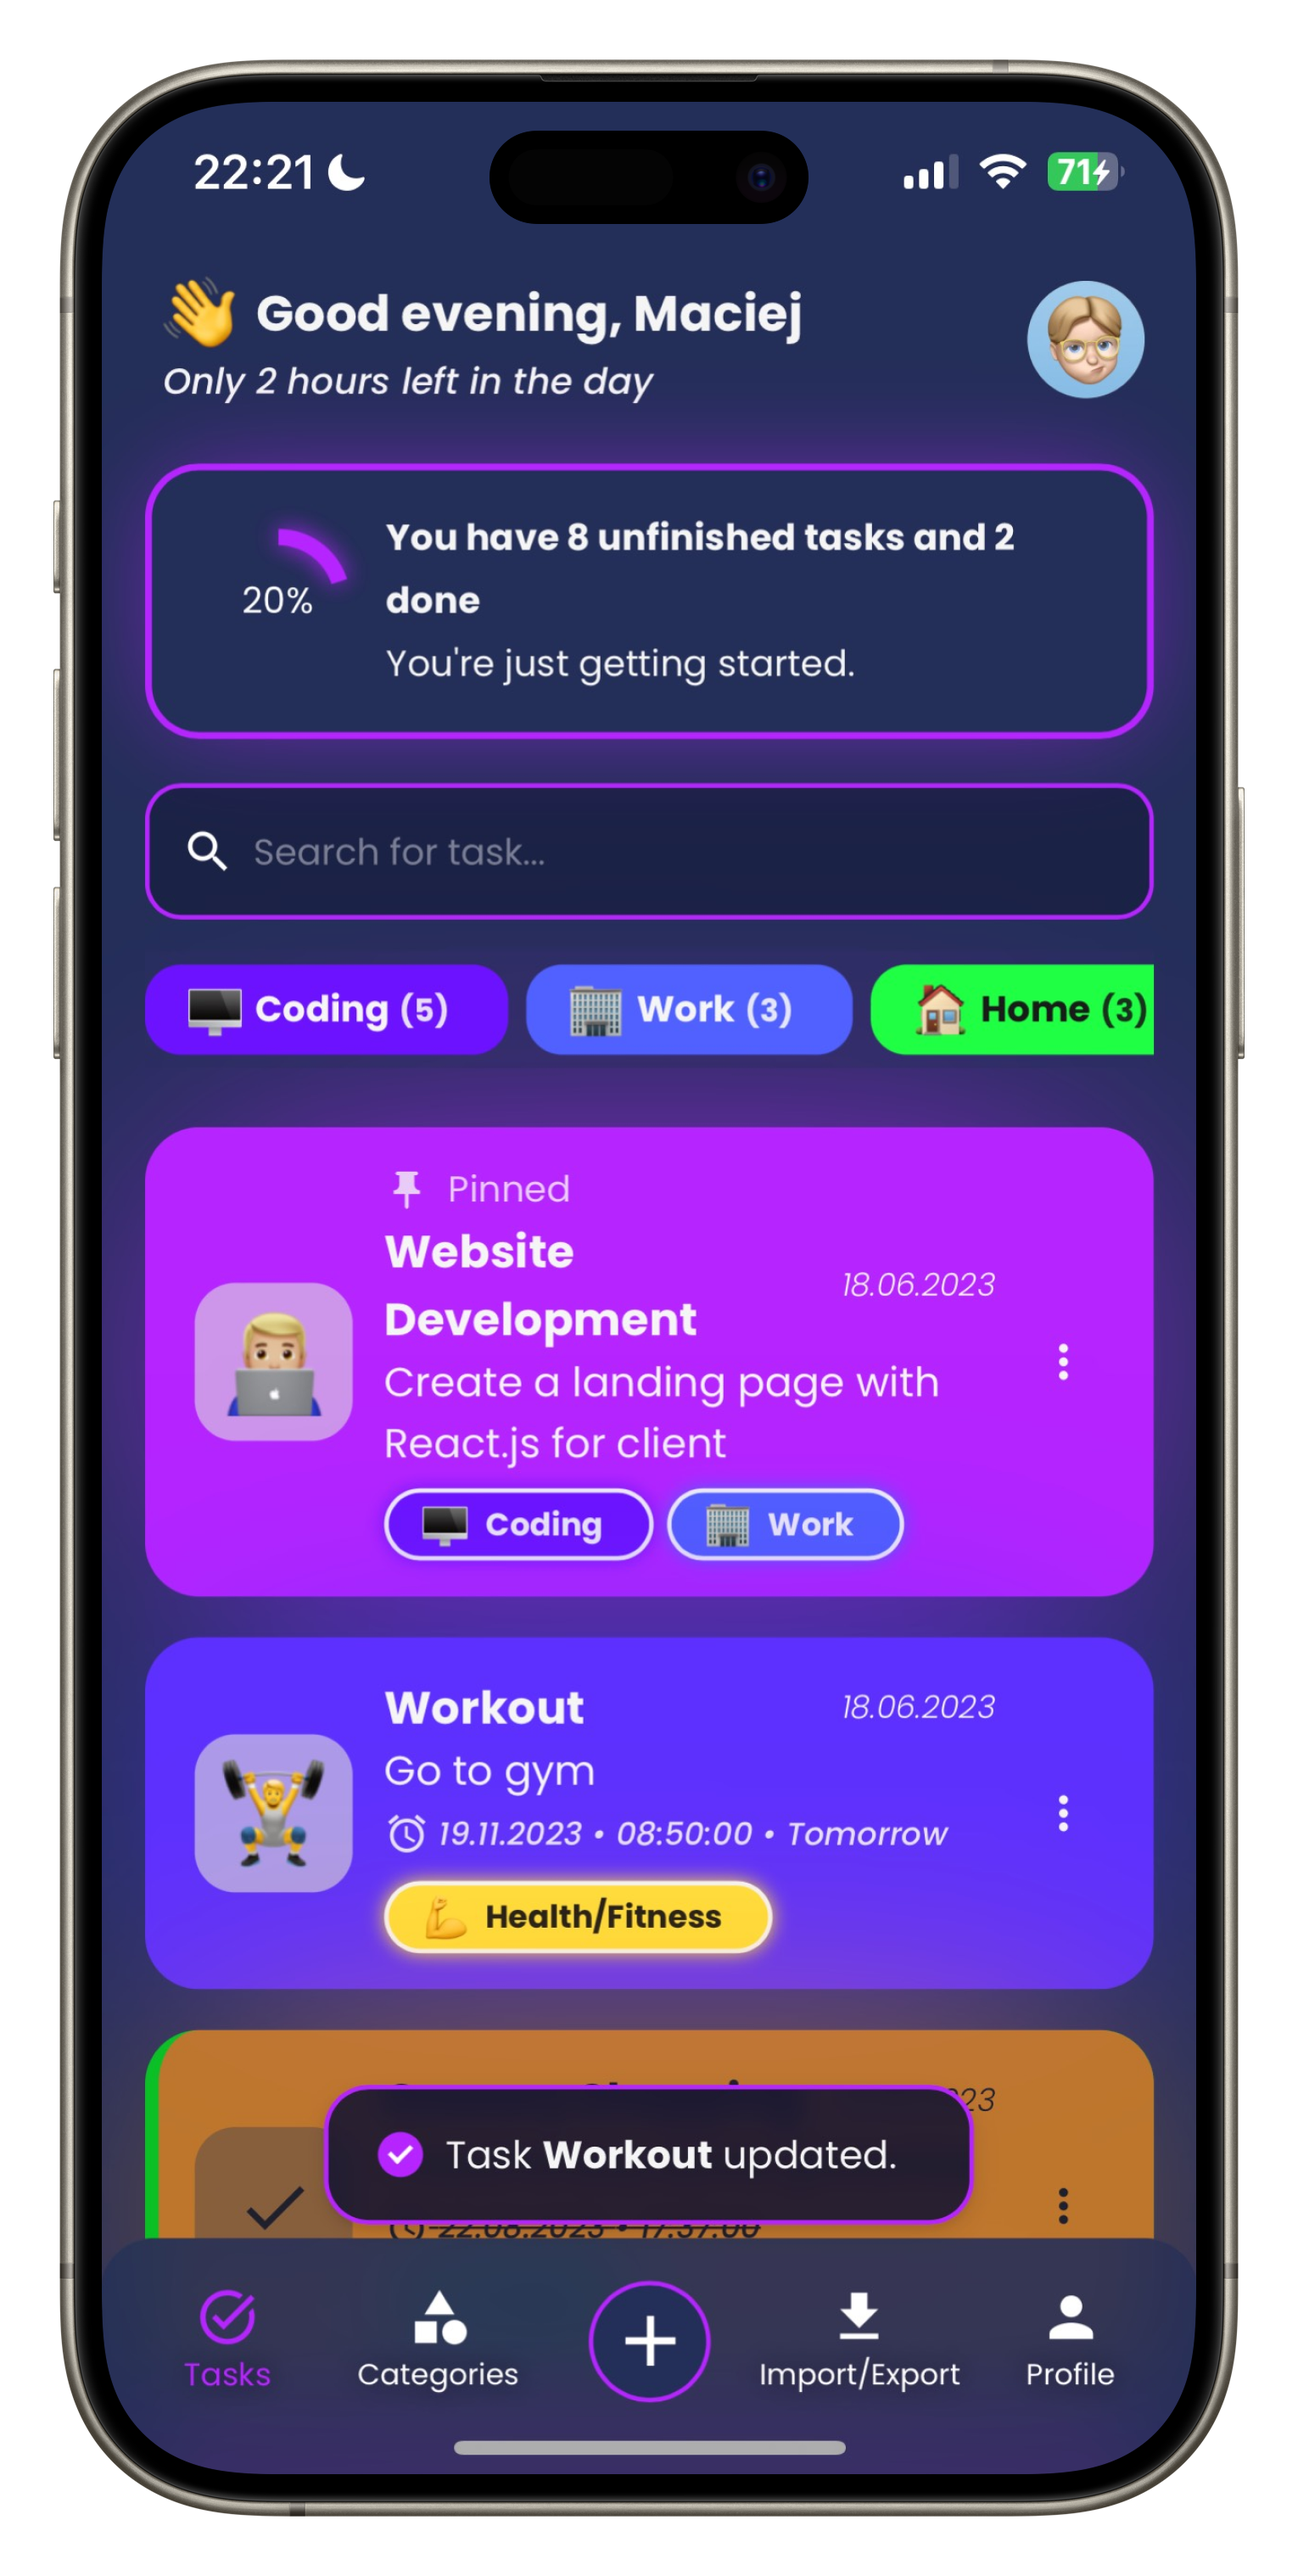
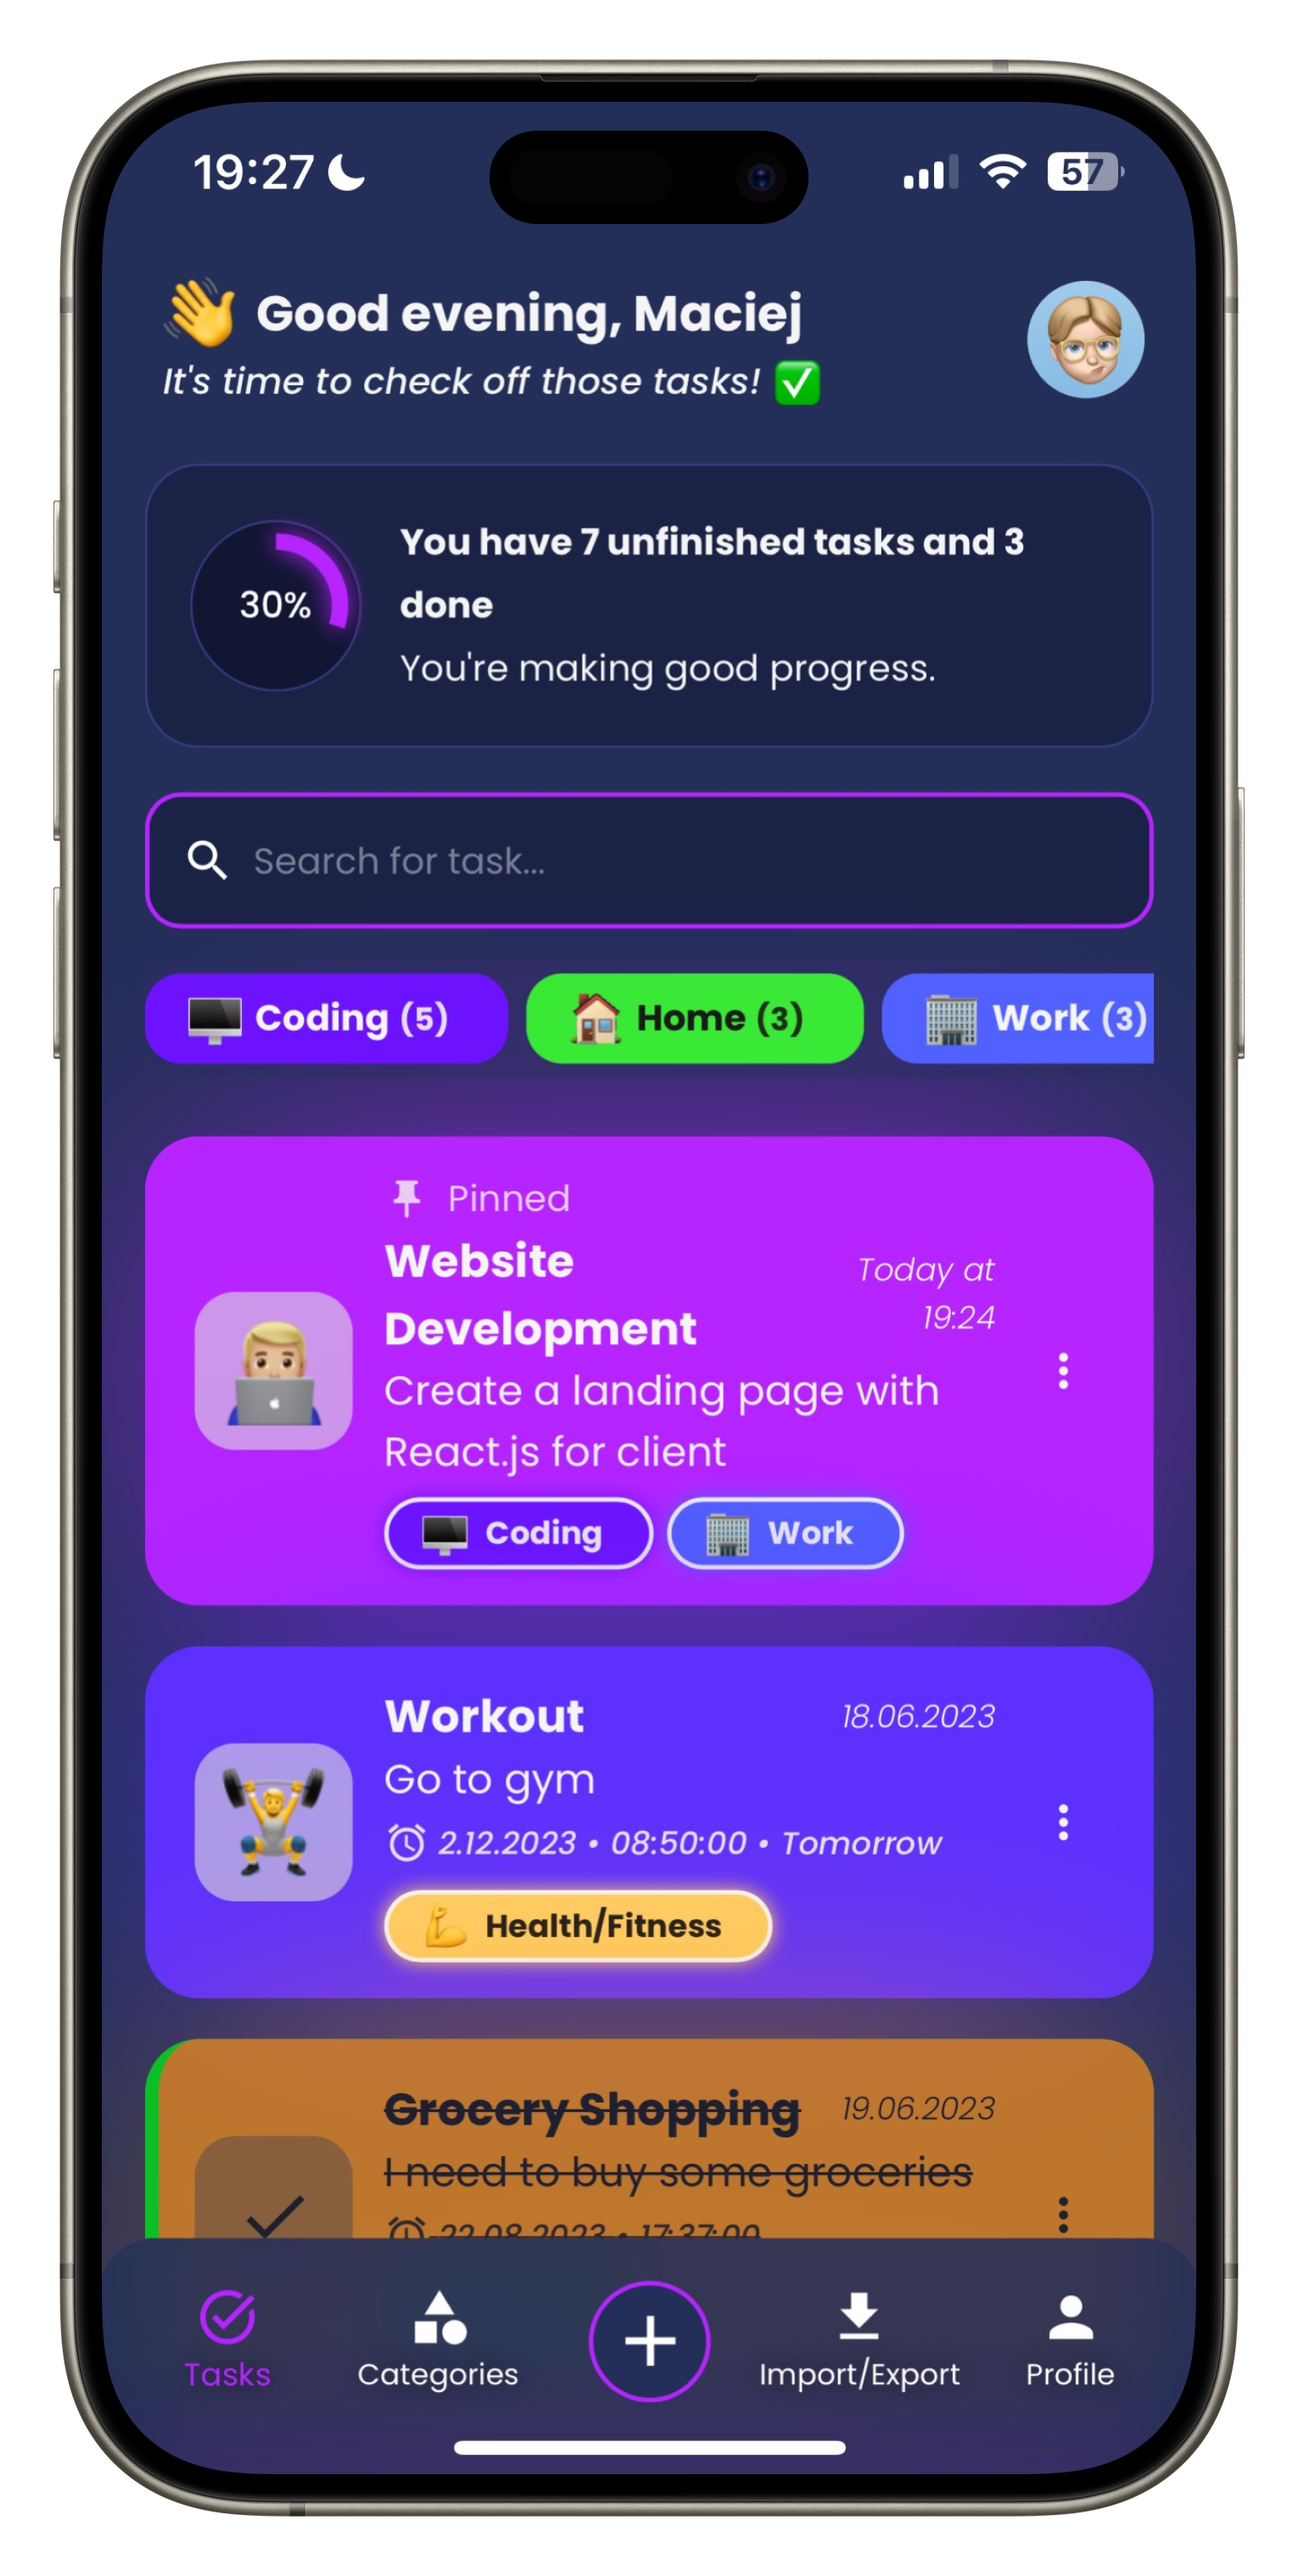
basic changes

diff --git a/src/pages/Home.tsx b/src/pages/Home.tsx
@@ -27,9 +27,12 @@ export const Home = ({ user, setUser }: UserProps) => {
 
   const completedTaskPercentage = (completedTasksCount / user.tasks.length) * 100;
 
+  const isOnline = useOnlineStatus();
+
   useEffect(() => {
     setRandomGreeting(getRandomGreeting());
     document.title = "Todo App";
+
     const interval = setInterval(() => {
       setRandomGreeting(getRandomGreeting());
       setGreetingKey((prevKey) => prevKey + 1); // Update the key on each interval
@@ -43,6 +46,7 @@ export const Home = ({ user, setUser }: UserProps) => {
     setCompletedTasksCount(completedCount);
 
     const today = new Date().setHours(0, 0, 0, 0);
+
     const count = user.tasks.filter((task) => {
       if (task.deadline) {
         const taskDeadline = new Date(task.deadline).setHours(0, 0, 0, 0);
@@ -50,10 +54,34 @@ export const Home = ({ user, setUser }: UserProps) => {
       }
       return false;
     }).length;
+
     setTasksWithDeadlineTodayCount(count);
   }, [user.tasks]);
 
-  const isOnline = useOnlineStatus();
+  const replaceEmojiCodes = (text: string): ReactNode[] => {
+    const emojiRegex = /\*\*(.*?)\*\*/g;
+    const parts = text.split(emojiRegex);
+
+    return parts.map((part, index) => {
+      if (index % 2 === 1) {
+        // It's an emoji code, render Emoji component
+        const emojiCode = part.trim();
+        return <Emoji key={index} size={20} unified={emojiCode} emojiStyle={user.emojisStyle} />;
+      } else {
+        // It's regular text
+        return part;
+      }
+    });
+  };
+
+  const renderGreetingWithEmojis = (text: string | ReactNode) => {
+    if (typeof text === "string") {
+      return replaceEmojiCodes(text);
+    } else {
+      // It's already a ReactNode, no need to process
+      return text;
+    }
+  };
 
   return (
     <>
@@ -61,7 +89,7 @@ export const Home = ({ user, setUser }: UserProps) => {
         <Emoji unified="1f44b" emojiStyle={user.emojisStyle} /> &nbsp; {displayGreeting()}
         {user.name && ", " + user.name}
       </GreetingHeader>
-      <GreetingText key={greetingKey}>{randomGreeting}</GreetingText>
+      <GreetingText key={greetingKey}>{renderGreetingWithEmojis(randomGreeting)}</GreetingText>
       {!isOnline && (
         <Offline>
           <WifiOff /> You're offline but you can use the app!
@@ -82,6 +110,8 @@ export const Home = ({ user, setUser }: UserProps) => {
                     : "none",
                   zIndex: 1,
                   margin: "1px",
+                  // boxShadow: "inset 0 0 0px 11px #333",
+                  // borderRadius: "100%",
                 }}
               />
 
@@ -109,6 +139,7 @@ export const Home = ({ user, setUser }: UserProps) => {
           </TasksCount>
         </TasksCountContainer>
       )}
+
       <Tasks user={user} setUser={setUser} />
 
       <AddTaskBtn animate={user.tasks.length === 0} user={user} />

diff --git a/src/utils/getRandomGreeting.ts b/src/utils/getRandomGreeting.ts
@@ -1,12 +1,12 @@
 /**
  * Returns a random greeting message to inspire productivity.
- * @returns {string} A random greeting message.
+ * @returns {string} A random greeting message with emoji.
  */
 export const getRandomGreeting = (): string => {
   const hoursLeft = 24 - new Date().getHours();
 
   const greetingsText: string[] = [
-    "Let's make today count!",
+    "Let's make today count! **1f680**",
     "Get things done and conquer the day!",
     "Embrace the power of productivity!",
     "Set your goals, crush them, repeat.",
@@ -15,18 +15,17 @@ export const getRandomGreeting = (): string => {
     "Stay organized, stay ahead.",
     "Take charge of your day!",
     "One task at a time, you've got this!",
-    "Productivity is the key to success.",
+    "Productivity is the key to success. **1f511**",
     "Let's turn plans into accomplishments!",
     "Start small, achieve big.",
     "Be efficient, be productive.",
     "Harness the power of productivity!",
     "Get ready to make things happen!",
-    "It's time to check off those tasks!",
-
-    "Start your day with a plan!",
+    "It's time to check off those tasks! **2705**",
+    "Start your day with a plan! **1f5d3-fe0f**",
     "Stay focused, stay productive.",
-    "Unlock your productivity potential.",
-    "Turn your to-do list into a to-done list!",
+    "Unlock your productivity potential. **1f513**",
+    "Turn your to-do list into a to-done list! **1f4dd**",
 
     `Have a wonderful  ${new Date().toLocaleDateString("en", {
       weekday: "long",
@@ -37,36 +36,8 @@ export const getRandomGreeting = (): string => {
     hoursLeft > 4
       ? `${hoursLeft} hours left in the day. Use them wisely!`
       : `Only ${hoursLeft} hours left in the day`,
-
-    // <TextWithEmoji emojiStyle={emojiStyle} unified="1f5d3-fe0f">
-    //   Start your day with a plan!
-    // </TextWithEmoji>,
-    // <TextWithEmoji emojiStyle={emojiStyle} unified="1f3af">
-    //   Stay focused, stay productive.
-    // </TextWithEmoji>,
-    // <TextWithEmoji emojiStyle={emojiStyle} unified="1f513">
-    //   Unlock your productivity potential.
-    // </TextWithEmoji>,
-    // <TextWithEmoji emojiStyle={emojiStyle} unified="2705">
-    //   Turn your to-do list into a to-done list!
-    // </TextWithEmoji>,
   ];
 
   const randomIndex = Math.floor(Math.random() * greetingsText.length);
   return greetingsText[randomIndex];
 };
-
-// interface EmojiTextProps {
-//   children: ReactNode;
-//   emojiStyle: EmojiStyle;
-//   unified: string;
-// }
-
-// const TextWithEmoji = ({ children, emojiStyle, unified }: EmojiTextProps) => {
-//   return (
-//     <span style={{ display: "flex", alignItems: "center" }}>
-//       {children}&nbsp;
-//       <Emoji emojiStyle={emojiStyle} unified={unified} size={20} />
-//     </span>
-//   );
-// };

diff --git a/src/components/Tasks.tsx b/src/components/Tasks.tsx
@@ -24,7 +24,7 @@ import {
   NoTasks,
   Pinned,
   SearchInput,
-  TaskContainer,
+  TaskComponent,
   TaskDate,
   TaskDescription,
   TaskHeader,
@@ -448,19 +448,13 @@ export const Tasks = ({ user, setUser }: UserProps): JSX.Element => {
 
         {user.tasks.length !== 0 ? (
           reorderTasks(user.tasks).map((task) => (
-            <TaskContainer
+            <TaskComponent
               key={task.id}
               backgroundColor={task.color}
               clr={getFontColorFromHex(task.color)}
               glow={user.settings[0].enableGlow}
               done={task.done}
-              style={{
-                filter:
-                  selectedTaskId !== task.id && open && !isMobile
-                    ? "blur(2px) opacity(75%)"
-                    : "none",
-                // transform: selectedTaskId === task.id && open ? "scale(1.02)" : "none",
-              }}
+              blur={selectedTaskId !== task.id && open && !isMobile}
             >
               {task.emoji || task.done ? (
                 <EmojiContainer clr={getFontColorFromHex(task.color)}>
@@ -591,7 +585,7 @@ export const Tasks = ({ user, setUser }: UserProps): JSX.Element => {
               >
                 <MoreVert />
               </IconButton>
-            </TaskContainer>
+            </TaskComponent>
           ))
         ) : (
           <NoTasks>

diff --git a/src/styles/tasks.styled.tsx b/src/styles/tasks.styled.tsx
@@ -8,9 +8,10 @@ interface TaskContainerProps {
   clr: string;
   done: boolean;
   glow: boolean;
+  blur: boolean;
 }
 
-export const TaskContainer = styled.div<TaskContainerProps>`
+export const TaskComponent = styled.div<TaskContainerProps>`
   display: flex;
   align-items: center;
   margin-top: 12px;
@@ -19,10 +20,12 @@ export const TaskContainer = styled.div<TaskContainerProps>`
   opacity: ${({ done }) => (done ? 0.7 : 1)};
   color: ${({ clr }) => clr};
   border-left: ${({ done }) => (done ? "6px solid #00ff0d" : "6px solid transparent")};
-  box-shadow: ${(props) => (props.glow ? `0 0 128px -28px ${props.backgroundColor}` : "none")};
+  box-shadow: ${(props) =>
+    props.glow && !props.blur ? `0 0 128px -28px ${props.backgroundColor}` : "none"};
   padding: 16px 16px 16px 16px;
   border-radius: 24px;
   animation: ${fadeIn} 0.5s ease-in;
+  filter: ${({ blur }) => (blur ? "blur(2px) opacity(75%)" : "none")};
 `;
 
 export const EmojiContainer = styled.span<{ clr: string }>`

diff --git a/src/components/CategorySelect.tsx b/src/components/CategorySelect.tsx
@@ -88,6 +88,7 @@ export const CategorySelect = ({
           PaperProps: {
             style: {
               maxHeight: 400,
+
               zIndex: 999999,
               padding: "2px 6px",
               background: "white",
@@ -167,9 +168,14 @@ const CategoriesMenu = styled(MenuItem)<{ clr?: string }>`
     color: ${(props) => getFontColorFromHex(props.clr || ColorPalette.fontLight)};
     /* box-shadow: 0 0 14px 4px ${(props) => props.clr || "#bcbcbc"}; */
     border: 4px solid #38b71f;
+    display: flex;
+    justify-content: left;
+    align-items: center;
     font-weight: bold;
-    &::before {
-      content: "•";
+    &::after {
+      content: "• selected";
+      font-size: 14px;
+      font-weight: 400;
     }
     &:hover {
       background: ${({ clr }) => clr || "#bcbcbc"};

diff --git a/src/styles/home.styled.tsx b/src/styles/home.styled.tsx
@@ -17,8 +17,11 @@ export const GreetingHeader = styled.div`
 `;
 
 export const GreetingText = styled.div`
+  display: flex;
+  align-items: center;
+  gap: 6px;
   font-size: 16px;
-  margin-top: 2px;
+  margin-top: 4px;
   margin-left: 8px;
   font-style: italic;
   animation: ${fadeInLeft} 0.5s ease-in-out;
@@ -43,6 +46,7 @@ export const TasksCount = styled.div<{ glow: boolean }>`
   margin: 24px 0 12px 0;
   border-radius: 24px;
   width: 650px;
+  border: 1px solid #44479cb7;
   @media (min-width: 1024px) {
     padding: 24px;
   }

diff --git a/src/styles/index.ts b/src/styles/index.ts
@@ -22,7 +22,7 @@ export {
 } from "./home.styled";
 export { Container, Input, AddTaskButton, StyledInput } from "./addTask.styled";
 export {
-  TaskContainer,
+  TaskComponent,
   EmojiContainer,
   TaskDate,
   TaskInfo,
